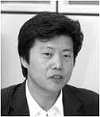
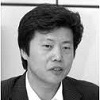
Translated a11y page into Korean, fixed aspect ratio of incorrect image

diff --git a/docs/test-a11y.md b/docs/test-a11y.md
@@ -4,62 +4,62 @@ type: [101]
 title: Accessibility Testing Resource Page - Shenzhen
 ---
 
-<h2 lang="en" id="a11y"><span lang="zho">简介</span> | Introduction to Web Accessibility</h2>
+<h2 lang="en" id="a11y"><span lang="ko">개요</span> | Introduction to Web Accessibility</h2>
 
-<p lang="zho"><span lang="en">Web Accessibility（Web</span>无障碍访问）旨在使得行动不便或者残障人士能够使用Web，即可以在Web上获取信息、理解信息、查找信息，以及网络交互。通常情况下，仅仅是确保每个网页的所有内容都有对应的文本（<span lang="en">Text</span>）信息，以及所有的交互都可以通过键盘来完成，就可以实现Web的无障碍访问。无障碍访问可以体现在一个单独的规范（例如<span lang="en">WAI-ARIA</span>）、指南（例如<span lang="en">WCAG</span>），或者某个规范中的一个部分（例如<span lang="en">HTML5</span>）。</p>
+<p lang="ko">웹 접근성은 장애인들이 웹을 사용할 수 있게 하는 것 즉, 웹을 인식하고 이해하며 운용하고 상호작용할 수 있는 것을 의미합니다. 웹 페이지의 모든 내용에 해당하는 대체 텍스트를 제공하고 모든 상호 작용을 키보드로 진행할 수 있도록 하는 것 만으로도 웹 접근성을 준수했다고 할 수 있습니다. 접근성은 하나의 규범(<span lang="en">WAI-ARIA</span> 등), 가이드(<span lang="en">WCAG</span>)로 정의할 수도 있고 표준안(<span lang="en">HTML5</span> 같은)의 일부로 포함될 수도 있습니다.</p>
 
 <p lang="en"><a href="http://www.w3.org/WAI/intro/accessibility.php">Web accessibility</a> means that people with disabilities can use the Web, that they can <a href="http://www.w3.org/TR/UNDERSTANDING-WCAG20/intro.html#introduction-fourprincs-head">perceive, understand, navigate, and interact</a> with it.  This can <em>usually</em> be accomplished simply be ensuring that <em>everything</em> be made available as text (or has a text equivalent), and that all interaction can be accomplished using a keyboard.  Accessibility can be defined in standalone specifications (like Accessibile Rich Internet Applications or WAI-ARIA), Guidelines (like Web Contect Accessibility Guidelines or WCAG) or as part of another specification (like HTML5).</p>
 
 
-<h2 lang="en" id="a11ytest"><span lang="zho">测试</span> | Web Accessibility Testing</h2>
+<h2 lang="en" id="a11ytest"><span lang="ko">웹 접근성 테스트</span> | Web Accessibility Testing</h2>
 
-<p lang="zho">无障碍访问通常依赖于<span lang="en">Web</span>技术之外的操作系统层面的<span lang="en">API（Accessibility APIs</span>或<span lang="en">AAPIs）</span>。因此，对无障碍访问的测试也可以要求使用一些独立于<span lang="en">Web</span>浏览器的<span lang="en">UA</span>（例如<span lang="en">Screen Reader</span>），这些<span lang="en">UA</span>可以将从<span lang="en">DOM、AAPI、off-screen models</span>和<span lang="en">heuristics</span>获得的信息进行组合或者合并，从而提供对使用最新技术的<span lang="en">Web</span>文档或者Web应用中所包含所有数据和特性的无障碍访问能力。无障碍访问也常常使用浏览器本身完成用户交互的能力来进行评估。这类测试需要自动测试工具，例如<span lang="en">WebDriver</span>。</p>
+<p lang="ko">접근성은 보통 웹 기술 이외의 운영체제 <span lang="en">API</span>(접근성 <span lang="en"><a href="http://www.w3.org/TR/2013/WD-html-aapi-20131001/#introduction-accessibility-apis">APIs</a></span> 혹은 <span lang="en">AAPIs</span>)에 의존하기 때문에 접근성에 대한 테스트도 웹 브라우저와 분리된 소프트웨어(<span lang="en">Screen Reader</span> 등)를 활용하는게 좋을 것 같습니다. 이런 소프트웨어는 <span lang="en">DOM</span>, 접근성 <span lang="en">API, off-screen models</span>과 경험 정보를 재조합 혹은 병합하여, 신기술을 사용한 웹 문서 혹은 웹 프로그램중 모든 데이터와 특성을 포함한 접근성을 제공합니다. 접근성은 또한 브라우저 자체의 사용자 상호작용으로 테스트를 진행하기도 합니다. 이런 테스트는 자동 테스트 도구(<span lang="en">WebDriver</span> 등)가 필요합니다.</p>
 
-<p  lang="en">Accessibility often depends on Accessibility Programming Interfaces (APIs) that operate outside of the web stack, at the Operating System level (commonly referred to as <a href="http://www.w3.org/TR/2013/WD-html-aapi-20131001/#introduction-accessibility-apis">Accessibility APIs</a> or AAPIs).  Testing accessibility can also require the use of User Agents that operate independently of the web browser (like a screen reader) that merge information gathered from the DOM, AAPIs, off-screen models and heuristics to provide access to all the data and features contained in modern web documents and apps.  Accessibility is also often measured by the ability of a user to complete interactions in the browser itself.  These types of tests require automation tools like WebDriver.</p>
+<p lang="en">Accessibility often depends on Accessibility Programming Interfaces (APIs) that operate outside of the web stack, at the Operating System level (commonly referred to as <a href="http://www.w3.org/TR/2013/WD-html-aapi-20131001/#introduction-accessibility-apis">Accessibility APIs</a> or AAPIs).  Testing accessibility can also require the use of User Agents that operate independently of the web browser (like a screen reader) that merge information gathered from the DOM, AAPIs, off-screen models and heuristics to provide access to all the data and features contained in modern web documents and apps.  Accessibility is also often measured by the ability of a user to complete interactions in the browser itself.  These types of tests require automation tools like WebDriver.</p>
 
-<h2 lang="en" id="priorities"><span lang="zho">优先级</span> | Priorities</h2>
+<h2 lang="en" id="priorities"><span lang="ko">중요성</span> | Priorities</h2>
 
-<p lang="zho">就像您看到的，对无障碍访问的测试并不总是像写<span lang="en">javascript</span>或者<span lang="en">reference tests</span>那么简单直接。但是，使用适当的工具以及与适当的人合作，可以实现更多测试工作的自动化或者半自动化。 本次活动第一次将<span lang="en">Web</span>无障碍专家和HTML以及其他OWP测试专家聚集在一起，紧密合作。我们希望这两类专家的聚会能够形成一个在<span lang="en">OWP</span>中高效测试无障碍访问的规划，并且通过这次活动能够产生一些测试内容和测试用例，展现开放<span lang="en">Web</span>平台<span lang="en">（Open Web Platform）</span>实现了真正向所有人开放的无障碍开放属性。</p>
+<p lang="ko">보시는 바와 같이, 접근성 테스트는 자바스크립트나 시각화한 테스트처럼 단순하지 않지만 올바른 툴, 사람들과 함께하면 더 많은 테스트 작업의 자동화 혹은 반자동화를 실현할 수 있습니다. 이번 행사는 최초로 웹 접근성 전문가와 <span lang="en">HTML</span> 및 기타 <span lang="en">OWP</span>테스트 전문가를 한자리에 모았습니다. 우리는 전문가들의 협업을 통해 효과적으로 <span lang="en">OWP</span>에서 접근성 테스트를 진행하고, 이번 행사를 통해 테스트 내용 및 테스트 사례를 추출해 열린 웹 플랫폼(<span lang="en">Open Web Platform</span>)으로 진정한 모든 사람들에게 개방된 접근성을 실현하고자 합니다.</p>
 
-<p  lang="en">Testing for Accessibility is not always as straightforward as writing javascript or reference tests.  However, with the right tools and the right people, it should be possible to automate or semi-automate more of these tests. This event marks the first time a group of accessibility experts will be available to work closely with HTML and other OWP testing experts.  We hope the proximity of these two groups will result in a plan for effectively testing accessibility in the OWP and generate the tests necessary to ensure that the Open Web Platform is available to everyone.</p>
+<p lang="en">Testing for Accessibility is not always as straightforward as writing javascript or reference tests.  However, with the right tools and the right people, it should be possible to automate or semi-automate more of these tests. This event marks the first time a group of accessibility experts will be available to work closely with HTML and other OWP testing experts.  We hope the proximity of these two groups will result in a plan for effectively testing accessibility in the OWP and generate the tests necessary to ensure that the Open Web Platform is available to everyone.</p>
 
-<h2 lang="en" id="participate"><span lang="zho">我怎么参与</span> | How can I participate?</h2>
+<h2 lang="en" id="participate"><span lang="ko">어떻게 참여하나요?</span> | How can I participate?</h2>
 
-<p lang="zho">很可能你正在编写的测试用例也可以用来对无障碍访问特性进行测试！过来与我们的专家聊聊，看看你的测试用例可以怎样用于无障碍访问的测试。</p>
+<p lang="ko">당신이 지금 작성하고 있는 테스트 케이스로 접근성을 테스트 할 수도 있습니다! 우리의 전문가와 함께 당신의 테스트 케이스가 어떻게 접근성 테스트에 사용되는지에 대해 얘기를 나눠봅시다.</p>
 
-<p  lang="en">It's possible that the tests you're writing can <em>also</em> test for accessibility!  Stop by and talk with one of our accessibility experts to see if your test can be adapted to also test for accessibility.</p>
+<p lang="ko">테스트 전문가인가요? 당신의 경험과 지식으로 테스트 때 <span lang="en">AAPIs</span>와 <span lang="en">WebDriver</span>에 관련된 과제에 도전해 보고 싶지 않나요? 오세요, 우리는 접근성 테스트를 준비중 입니다.</p>
 
-<p  lang="en">Are you an expert in testing?  Are you interested in applying this knowledge to solve testing challenges that involve AAPIs and WebDriver?  Please stop by and talk with us while we plan for the future of accessibility testing.</p>
+<p lang="ko">이제 접근성을 접한 혹은 보조기술이 어떻게 웹 기술과 작동하는지에 대해 관심이 있는 분들을 우리의 행사에 초대합니다. 더욱 깊이 <span lang="en">Test The Web Forward</span> 사이트에 대해 분석하고 접근성에 대해 보완하고 개선하고 싶습니다.</p>
 
-<p  lang="en">For those who may be new to accessibility or are interested in gaining a better understanding of how assistive technologies work within the web stack, join us for an in depth analysis and review of the Test The Web Forward website as we attempt to identify opportunities to improve access to this resource.</p>
+<p lang="ko"><a href="http://www.w3.org/WAI/PF/html-accessibility-tf.html">HTML 접근성 TF</a>는 OWP 규범 중 접근성 테스트에 대한 당신의 의견이나 생각에 매우 관심 있습니다. 저희에게 <a href="mailto:public-html-a11y@w3.org">피드백</a>을 주세요.</p>
 
-<p lang="zho">您是一位测试专家？是否有兴趣使用您的经验和知识来解决测试中涉及<span lang="en">AAPIs</span>和<span lang="en">WebDriver</span>的挑战？过来聊聊，我们正在规划无障碍访问测试未来工作。</p>
+<p lang="en">It's possible that the tests you're writing can <em>also</em> test for accessibility!  Stop by and talk with one of our accessibility experts to see if your test can be adapted to also test for accessibility.</p>
 
-<p lang="zho">对于那些可能刚刚了解无障碍访问，或者有兴趣进一步了解辅助技术如何与Web技术协作的朋友，邀请您加入我们的讨论，深入分析<span lang="en">Test The Web Forward</span>网站，我们希望尽可能完善和改进这个资源的无障碍访问特性。</p>
+<p lang="en">Are you an expert in testing?  Are you interested in applying this knowledge to solve testing challenges that involve AAPIs and WebDriver?  Please stop by and talk with us while we plan for the future of accessibility testing.</p>
 
-<p lang="zho"><span lang="en">HTML Accessibility TF（HTML</span>无障碍访问特别任务组）非常期待听到您对OWP规范中无障碍访问特性的测试有关的任何想法和建议。来吧，给我们一些反馈意见。</p>
+<p lang="en">For those who may be new to accessibility or are interested in gaining a better understanding of how assistive technologies work within the web stack, join us for an in depth analysis and review of the Test The Web Forward website as we attempt to identify opportunities to improve access to this resource.</p>
 
 <p lang="en">The <a href="http://www.w3.org/WAI/PF/html-accessibility-tf.html">HTML Accessibility TF</a> is interested in hearing your thoughts and ideas regarding effective testing for accessibility in OWP specifications.  Feel free to reach out and give us some <a href="mailto:public-html-a11y@w3.org">feedback</a>.</p>
 
-<h2 lang="en"><span lang="zho">我们测试什么？</span> | What are we testing?</h2>
+<h2 lang="en"><span lang="ko">무엇을 테스트 하는가？</span> | What are we testing?</h2>
 
 <h3 lang="en">Canvas 2D</h3>
 
-<p lang="zho"><span lang="en">Canvas 2D</span>规范具有的一些属性是面向无障碍访问的特殊要求的。其中一些属性是最近才实现的，还没有完成互操作性的测试。</p>
+<p lang="ko"><span lang="en"><a href="http://www.w3.org/html/wg/drafts/2dcontext/html5_canvas_CR/">Canvas 2D</a></span>스펙의 일부 속성은 접근성에 대한 특수요구가 있습니다. 그 중 일부 속성은 최근에 구현된 것으로 아직 운용성 테스트를 진행하지 않았습니다.</p>
 
-<p  lang="en">The <a href="http://www.w3.org/html/wg/drafts/2dcontext/html5_canvas_CR/">Canvas 2D</a> specification has a number of features that address accessibility specifically.  Some of these features were implemented very recently and have not been tested for interoperability.</p>
+<p lang="en">The <a href="http://www.w3.org/html/wg/drafts/2dcontext/html5_canvas_CR/">Canvas 2D</a> specification has a number of features that address accessibility specifically.  Some of these features were implemented very recently and have not been tested for interoperability.</p>
 
 <h3 lang="en">ARIA</h3>
 
-<p lang="zho">在<span lang="en">HTML5</span>，首次将<span lang="en">ARIA</span>特别定义在一个<span lang="en">HTML</span>规范文本（标准）中。</p>
+<p lang="ko"><span lang="en">HTML5</span>에서 최초로 <span lang="en">ARIA</span>를 특별히 <span lang="en">HTML</span>스펙(표준)에 정의하였습니다.</p>
 
-<p  lang="en">HTML5 marks the first time ARIA has been specifically defined within the context of an HTML specification (see <a href="http://www.w3.org/TR/html/dom.html#sec-strong-native-semantics">3.2.7.3 Strong Native Semantics</a> and <a href="http://www.w3.org/TR/html/dom.html#sec-implicit-aria-semantics">3.2.7.4 Implicit ARIA Semantics</a>.</p>
+<p lang="en">HTML5 marks the first time ARIA has been specifically defined within the context of an HTML specification (see <a href="http://www.w3.org/TR/html/dom.html#sec-strong-native-semantics">3.2.7.3 Strong Native Semantics</a> and <a href="http://www.w3.org/TR/html/dom.html#sec-implicit-aria-semantics">3.2.7.4 Implicit ARIA Semantics</a>.</p>
 
 <h3 lang="en">Interactive elements</h3>
 
-<p lang="zho">我们希望一些测试工作，以验证交互元素的键盘无障碍访问特性，以及验证交互原色的角色、状态和组件的正确性。</p>
+<p lang="ko">우리는 테스터가 필요합니다. 인터랙션 요소의 키보드 접근성 특성에 대한 검증 및 인터랙션 요소의 역할, 상태 및 컴포넌트의 정확성에 대한 테스트가 필요합니다.</p>
 
-<p  lang="en">We are looking for tests that verify keyboard accessibility and tests that verify the correct role, state, and properties of interactive elements.</p>
+<p lang="en">We are looking for tests that verify keyboard accessibility and tests that verify the correct role, state, and properties of interactive elements.</p>
 
 <h2 lang="en">Resources</h2>
 
